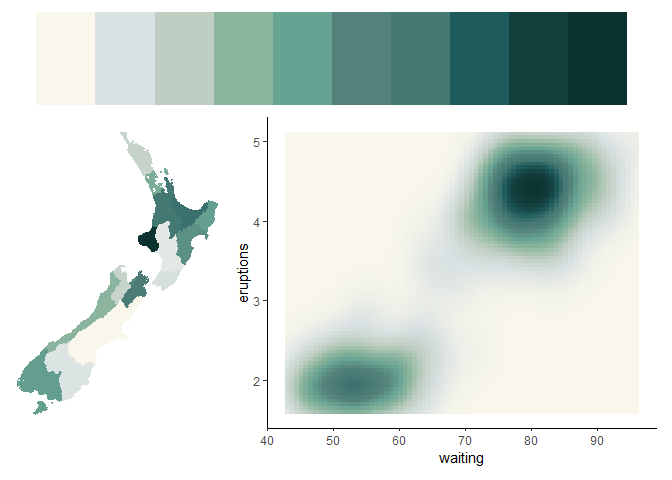
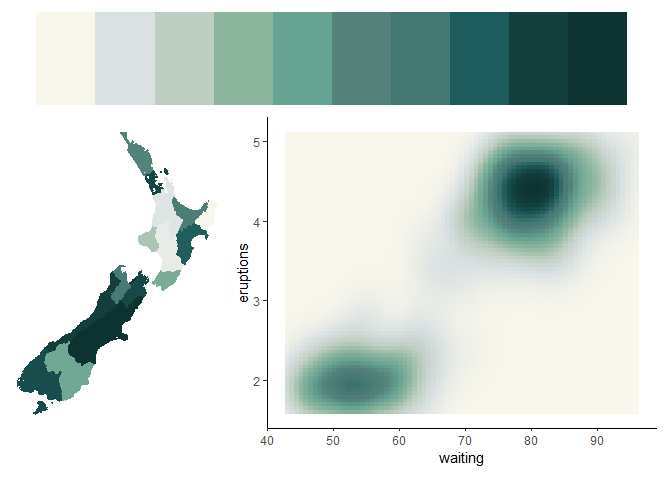
update readme example

Changed region(s): [[0.0, 0.2812, 0.3438, 0.875]]

diff --git a/README.md b/README.md
@@ -70,13 +70,13 @@ map of New Zealand. The key `ggplot2` functions needed to use the
 
 For categorical palettes:
 
-- `scale_colour_manual()`
-- `scale_fill_manual()`
+- `scale_colour_manual(values = get_pal("caw_cat_1"))`
+- `scale_fill_manual(values = get_pal("caw_cat_1"))`
 
 For diverging or sequential palettes:
 
-- `scale_colour_gradientn()`
-- `scale_fill_gradientn()`
+- `scale_colour_gradientn(colours = get_pal("caw_seq_1"))`
+- `scale_fill_gradientn(colours = get_pal("caw_seq_1"))`
 
 ``` r
 library(gapminder)
